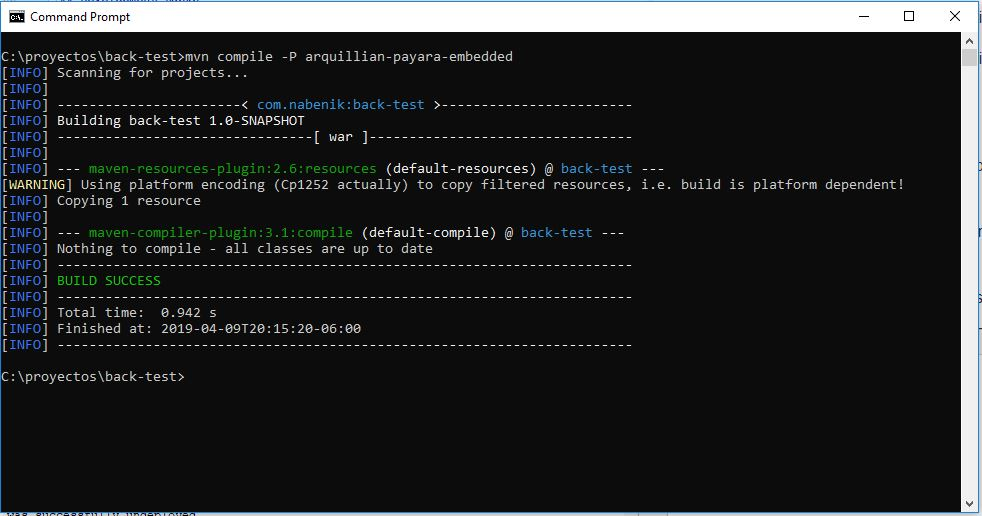
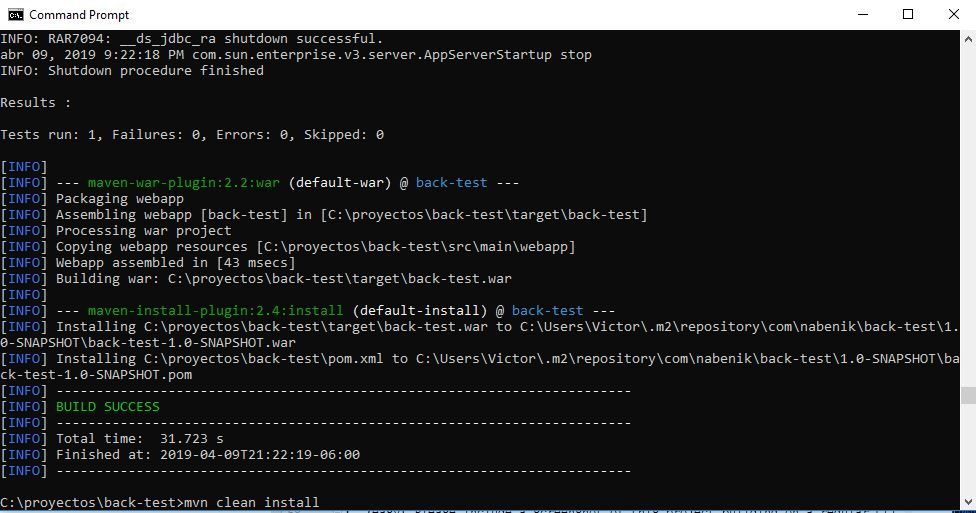
Test to all CRUD methods added

Changed region(s): [[0.0, 0.0, 1.0, 1.0]]

diff --git a/src/test/java/com/nabenik/repository/MovieRepositoryTest.java b/src/test/java/com/nabenik/repository/MovieRepositoryTest.java
@@ -12,7 +12,10 @@ import org.jboss.shrinkwrap.api.spec.WebArchive;
 import org.junit.Test;
 import org.junit.runner.RunWith;
 
+import javax.ejb.Stateless;
 import javax.inject.Inject;
+
+import java.util.List;
 
 import static org.junit.Assert.*;
 
@@ -41,11 +44,49 @@ public class MovieRepositoryTest {
     public void create() {
         Movie movie = new Movie("El silencio de Jimmy", "2014", "4 años");
         movieRepository.create(movie);
-
-
         System.out.println("Movie Id " + movie.getMovieId());
-
         assertNotNull(movie.getMovieId());
+        // se añadió otro registro solo para pruebas
+        movie = new Movie("El silencio de Jimmy 2", "2015", "4 días");
+        movieRepository.create(movie);
+        movie = new Movie("El silencio de Jimmy 3", "2015", "4 días");
+        movieRepository.create(movie);
+
     }
+
+    @Test //TEST UPDATE
+    public void testUpdate()
+    {
+        Movie movie = movieRepository.findById(2L);
+        movie.setYear("2014");
+        movieRepository.update(2L,movie);
+
+        movie = movieRepository.findById(2L);
+        assertEquals(movie.getYear(),"2014");
+    }
+
+   @Test //TEST GET INDIVIDUAL
+    public void testGetById() {
+        Movie movie = movieRepository.findById(1L);
+        System.out.println("Movie Title " + movie.getTitle());
+        assertNotNull(movie);
+
+    }
+
+    @Test //TEST GETALL
+    public void testGetAllByTitle() {
+        List<Movie> movieList = movieRepository.listAll("silencio");
+        System.out.println("Tamaño: " + movieList.size());
+        assertNotNull(movieList);
+    }
+
+    @Test //TEST DELETE
+    public void testDelete() {
+        movieRepository.delete(3L);
+        List<Movie> movieList = movieRepository.listAll("silencio");
+        System.out.println("Nuevo tamaño de lista " + movieList.size());
+
+    }
+
 
 }

diff --git a/src/main/java/com/nabenik/repository/MovieRepository.java b/src/main/java/com/nabenik/repository/MovieRepository.java
@@ -3,21 +3,23 @@ package com.nabenik.repository;
 
 import com.nabenik.model.Movie;
 
+import javax.ejb.Local;
 import javax.ejb.Stateless;
 import javax.enterprise.context.RequestScoped;
 import javax.enterprise.inject.Default;
 import javax.inject.Inject;
 import javax.persistence.EntityManager;
 import javax.persistence.NoResultException;
+import javax.persistence.PersistenceContext;
 import javax.persistence.Query;
 import javax.validation.Valid;
 import java.util.List;
 
-@RequestScoped
-@Default
+@Local
+@Stateless
 public class MovieRepository {
 
-    @Inject
+    @PersistenceContext(unitName = "back-PU")
     EntityManager em;
 
     public Movie findById(Long id){
@@ -49,7 +51,8 @@ public class MovieRepository {
         return toEdit;
     }
 
-    public void delete(Movie movie){
+    public void delete(Long id){
+        Movie movie = findById(id);
         em.remove(movie);
     }
 

diff --git a/src/main/java/com/nabenik/controller/MovieController.java b/src/main/java/com/nabenik/controller/MovieController.java
@@ -14,7 +14,6 @@ import java.util.List;
 @Path("/movies")
 @Produces(MediaType.APPLICATION_JSON)
 @Consumes(MediaType.APPLICATION_JSON)
-@Stateless
 public class MovieController {
 
 
@@ -48,8 +47,7 @@ public class MovieController {
     @DELETE
     @Path("/{id}")
     public Response delete(@PathParam("id") Long id){
-        Movie movie = movieRepository.findById(id);
-        movieRepository.delete(movie);
+        movieRepository.delete(id);
         return Response.ok().build();
     }
 }

diff --git a/src/main/java/com/nabenik/model/Movie.java b/src/main/java/com/nabenik/model/Movie.java
@@ -19,7 +19,7 @@ public class Movie implements Serializable {
     @NotNull
     private String title;
 
-    @Column
+    @Column(name = "movie_year")
     @NotNull
     private String year;
 

diff --git a/README.md b/README.md
@@ -89,5 +89,6 @@ fun hello() = "world"
     ```
 
 5. (hard) Please identify the Integration Testing for `MovieRepository`, after that implement each of the non-included CRUD methods
+![](p5.JPG?raw=true)
 
 6. (hard) This project includes support for [Oracle Weblogic](https://www.oracle.com/technetwork/middleware/weblogic/downloads/wls-main-097127.html), please include a screenshot with your modifications being tested with Weblogic 
